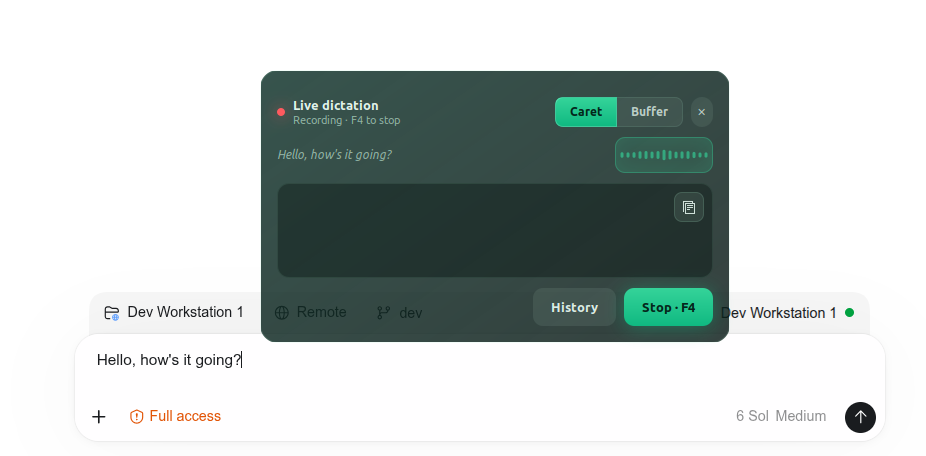
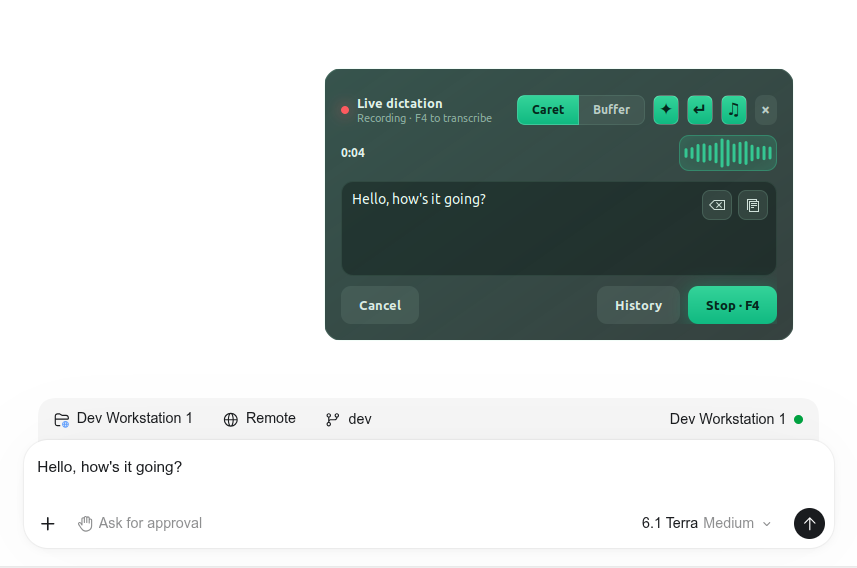
Refresh README screenshot and simplify project overview

Changed region(s): [[0.0303, 0.1228, 0.9405, 0.8289], [0.7585, 0.8596, 0.9708, 0.9518], [0.091, 0.8904, 0.2427, 0.9518]]

diff --git a/README.md b/README.md
@@ -2,7 +2,7 @@
 
 > **Speak naturally. Press stop. Let the words land.**
 
-Live Dictation is a small, always-on-top voice panel for GNOME on Linux. It records your speech locally, then transcribes it with Azure OpenAI when you stop. The finished text goes into the app you are using or an editable buffer.
+Live Dictation is a small, always-on-top voice panel for GNOME on Linux. It records your speech locally, then transcribes it when you stop. The finished text goes into the app you are using or an editable buffer.
 
 ![Live Dictation popup above an editor](assets/live-dictation.png)
 
@@ -27,9 +27,3 @@ The panel opens at the top right of your primary monitor. Drag it elsewhere whil
 - **Tidy up a long thought.** Optional Format mode uses AI to make rambling speech clearer and more concise while keeping your meaning. Formatted text waits for your review instead of sending automatically.
 - **Choose when to press Enter.** In Caret mode, enable automatic Enter for chat apps that send on Enter. End with **“hold”** to keep a draft when it is on, or **“boom”** to press Enter when it is off. The spoken cue is removed from the delivered text.
 - **Find it again.** Browse and copy past transcripts in the popup. Audio, text, and timing history stay on your machine.
-
-## Bring your own Azure deployment
-
-Clone the repo, install the Linux dependencies, and point a private user config at your Azure OpenAI `gpt-transcribe` deployment. The app uploads one completed audio file after you stop, so pauses do not end the recording. Credentials and recordings stay outside Git. The [setup guide](docs/SETUP.md) walks through the service, shortcut, and optional GNOME focus helper; [architecture notes](docs/ARCHITECTURE.md) explain the recording and transcription paths.
-
-Built and tested on Ubuntu with GNOME, GTK 3, and XWayland. Audio is sent to your configured Azure OpenAI resource for transcription.

diff --git a/docs/SETUP.md b/docs/SETUP.md
@@ -1,6 +1,6 @@
 # Set up Live Dictation
 
-Live Dictation currently targets a GNOME desktop on Linux. The popup uses GTK 3 through XWayland; the microphone is read through PulseAudio's `parec` command (also provided by PipeWire's PulseAudio compatibility layer). You need an Azure OpenAI resource with a `gpt-transcribe` file transcription deployment.
+Live Dictation is built and tested on Ubuntu with GNOME, GTK 3, and XWayland. The microphone is read through PulseAudio's `parec` command (also provided by PipeWire's PulseAudio compatibility layer). You need an Azure OpenAI resource with a `gpt-transcribe` file transcription deployment. The app uploads one completed audio file to that resource when you stop; pauses do not end the recording. Credentials, recordings, and transcripts stay outside the Git clone.
 
 ## 1. Install the app
 
